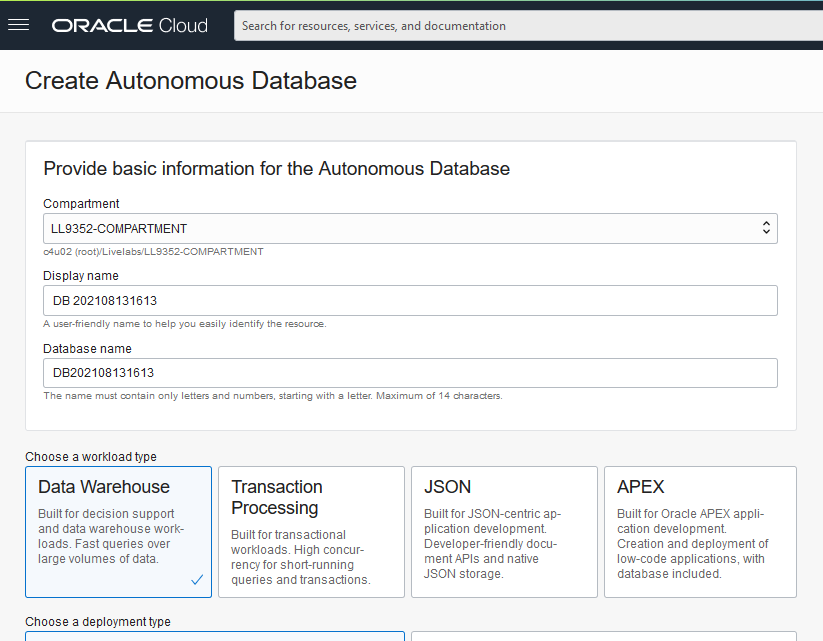
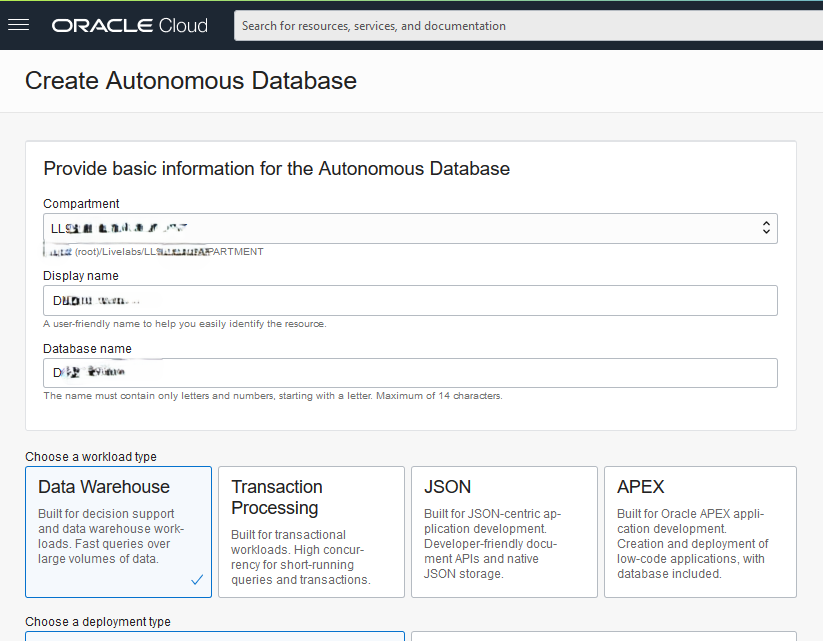
Updating the workshop link and blurring info
Updating the workshop link and blurring info

Changed region(s): [[0.0304, 0.3432, 0.2734, 0.4056], [0.0911, 0.4368, 0.1823, 0.4992], [0.0608, 0.5616, 0.1823, 0.5928]]

diff --git a/shared/adb-slack-msteams/introduction/intro.md b/shared/adb-slack-msteams/introduction/intro.md
@@ -37,7 +37,7 @@ Oracle Autonomous Database offers robust integration with Slack and Microsoft Te
 
 - [Oracle Autonomous Data Warehouse Documentation](https://docs.oracle.com/en/cloud/paas/autonomous-data-warehouse-cloud/index.html)
 - [Additional Autonomous Data Warehouse Tutorials](https://docs.oracle.com/en/cloud/paas/autonomous-database/serverless/adbsb/tutorials.html)
-- [Autonomous Database Workshops](https://apexapps.oracle.com/pls/apex/dbpm/r/livelabs/livelabs-workshop-cards?p100_workshop_series=222)
+- [Autonomous Database Workshops](https://livelabs.oracle.com/pls/apex/r/dbpm/livelabs/livelabs-workshop-cards?clear=100&session=103864463501116)
 - [Slack](https://slack.com/)
 - [Microsoft Teams](https://www.microsoft.com/en-us/microsoft-teams/group-chat-software)
 
